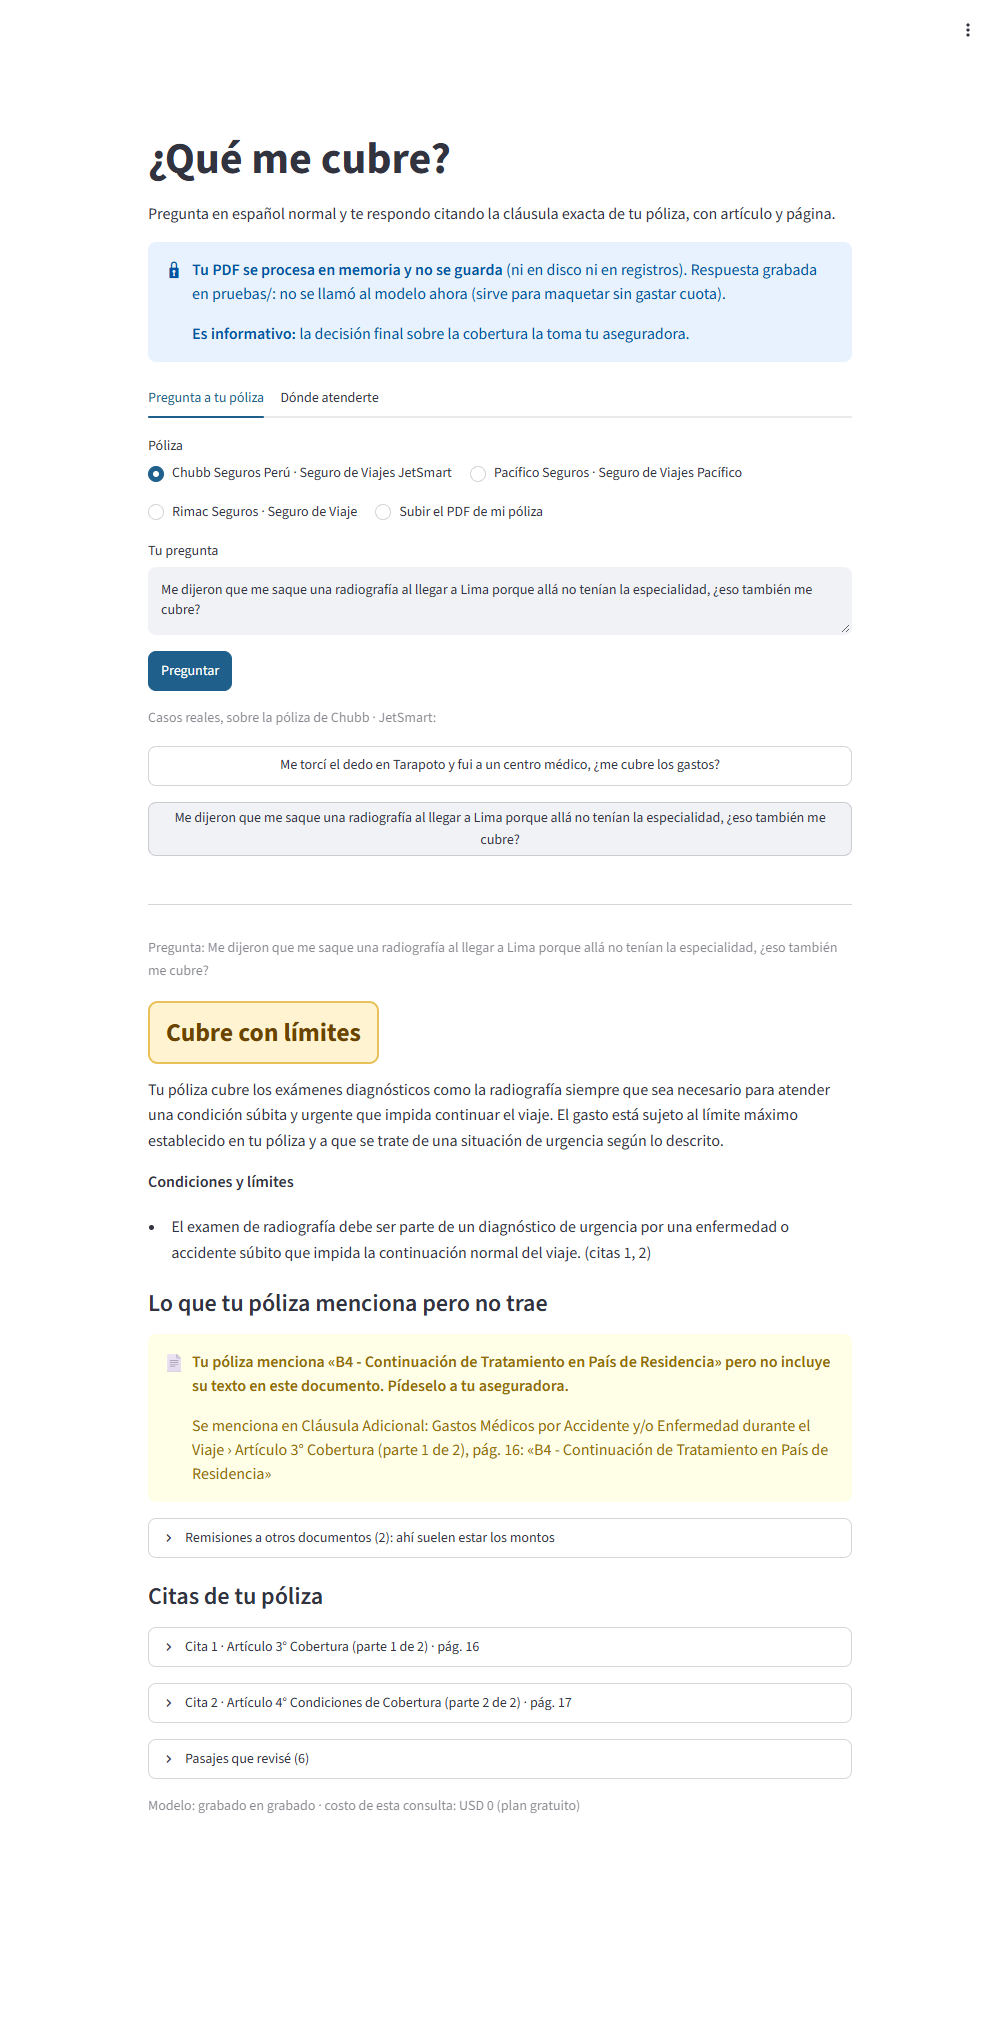
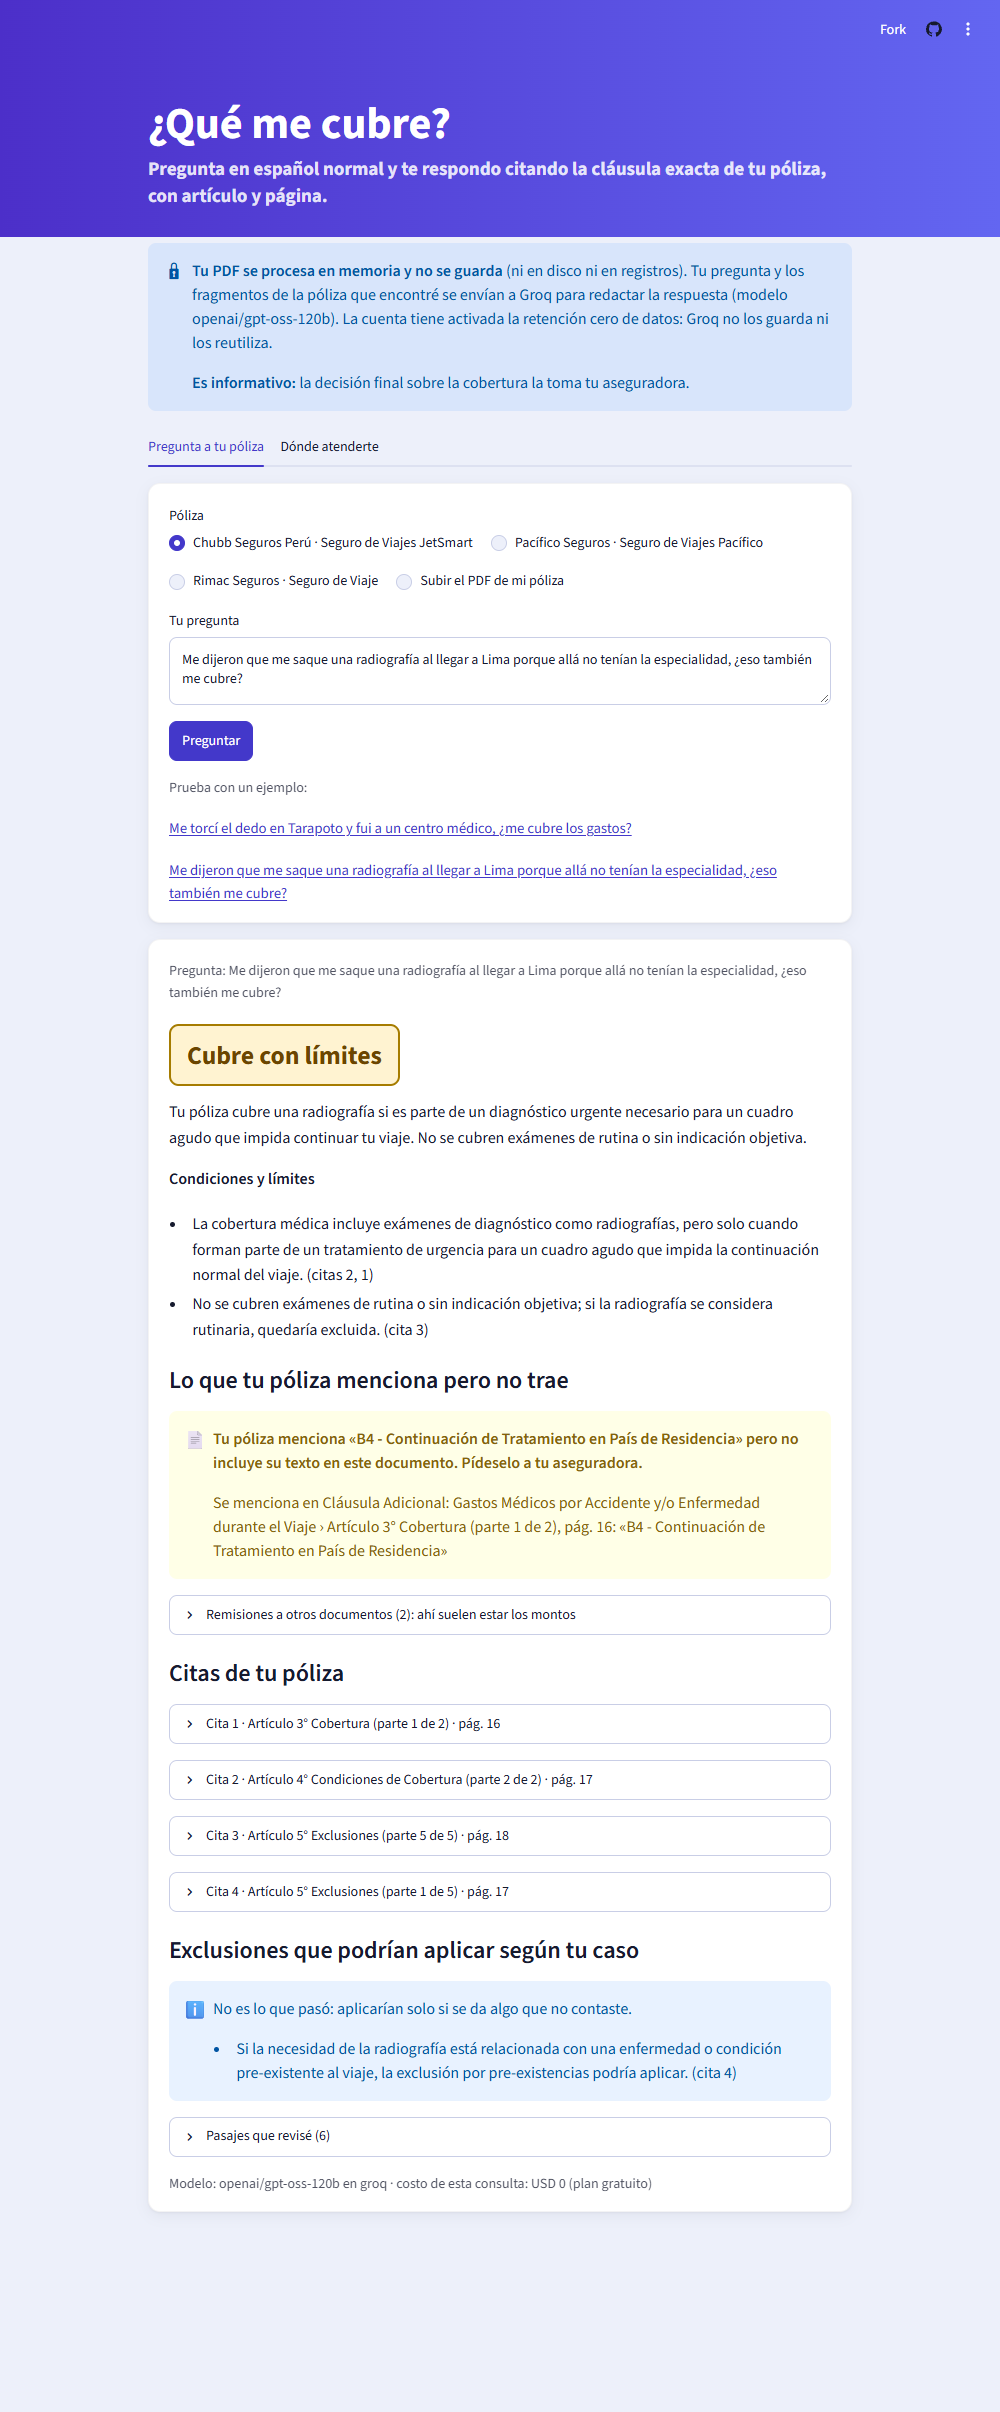
Capturas en vivo de la app desplegada con el diseño nuevo
Tres del flujo (inicio, P02 y P01 con una cita desplegada) y una del mapa en
Tarapoto, tomadas de queqbre.streamlit.app con respuestas de Groq: las dos
salieron "Cubre con límites", completas y con B4 en el bloque. Reemplazan a
las locales con respuestas grabadas.

Changed region(s): [[0.0, 0.0, 1.0, 0.9058], [0.775, 0.2499, 0.806, 0.2811]]

diff --git a/docs/arquitectura.md b/docs/arquitectura.md
@@ -75,24 +75,25 @@ que la verificación no garantiza (ver Limitaciones en el README).
 
 ## Capturas
 
-Tomadas con `python pruebas/capturas.py` sobre la app en local con el proveedor de maqueta
-(`QMC_PROVEEDOR=grabado`): la respuesta del modelo es la que ya dio para esa pregunta en
-`pruebas/salidas/`, y todo lo demás (búsqueda, verificación de citas, bloque de ausentes,
-interfaz) corrió de verdad. Por eso el aviso de arriba dice "Respuesta grabada" en vez de
-Groq.
+Tomadas el 2026-11-08 de la app desplegada ([queqbre.streamlit.app](https://queqbre.streamlit.app/)),
+con respuestas en vivo de Groq (`openai/gpt-oss-120b`), con
+`python pruebas/capturas.py --url https://queqbre.streamlit.app --espera 45`. El script deja pasar
+el límite por minuto entre las dos preguntas y se detiene sin guardar si una respuesta sale sin
+veredicto o sin el bloque de B4.
 
-1. Inicio: póliza, pregunta y los dos casos reales de Tarapoto como botones.
+1. Inicio: póliza, pregunta y los dos ejemplos de Tarapoto, que solo aparecen con la póliza
+   de Chubb.
 
    ![Inicio](capturas/1_inicio.png)
 
-2. La radiografía al llegar a Lima (P02): veredicto arriba, explicación, B4 resaltado con su
-   página y las remisiones plegadas.
+2. La radiografía al llegar a Lima (P02): "Cubre con límites" arriba, la explicación, B4
+   resaltado con su página, las remisiones plegadas, las citas y la preexistencia en
+   "exclusiones que podrían aplicar según tu caso".
 
    ![Respuesta a la radiografía](capturas/2_respuesta_radiografia.png)
 
-3. La torcedura en Tarapoto (P01): una cita desplegada con su texto literal y página, y la
-   preexistencia en "exclusiones que podrían aplicar según tu caso". El texto grabado abre
-   con "Sí,": quedó marcado y la etiqueta de arriba, "Cubre con límites", es la que manda.
+3. La torcedura en Tarapoto (P01): "Cubre con límites", B4 y una cita desplegada con su texto
+   literal, su página y la verificación contra el PDF.
 
    ![Respuesta a la torcedura con citas](capturas/3_respuesta_torcedura_citas.png)
 

diff --git a/README.md b/README.md
@@ -101,8 +101,8 @@ invente: eso se resolvió con código, verificando cada cita contra su página d
   ([`pruebas/estabilidad.md`](pruebas/estabilidad.md)). Detalle y límites en Limitaciones.
 - **Capturas:** en [`docs/arquitectura.md`](docs/arquitectura.md#capturas): la pantalla
   inicial, la radiografía al llegar a Lima (P02), la torcedura en Tarapoto (P01) con una
-  cita desplegada y "Dónde atenderte" en Tarapoto, tomadas en local con respuestas grabadas
-  de `pruebas/` (ahí se explica).
+  cita desplegada y "Dónde atenderte" en Tarapoto, tomadas de la app desplegada con
+  respuestas en vivo de Groq.
 - **Diagrama de arquitectura:** [`docs/arquitectura.md`](docs/arquitectura.md) (Mermaid) y
   [`docs/arquitectura.png`](docs/arquitectura.png), incluida la pestaña del mapa.
 - **Modelos y por qué:** ver abajo.
